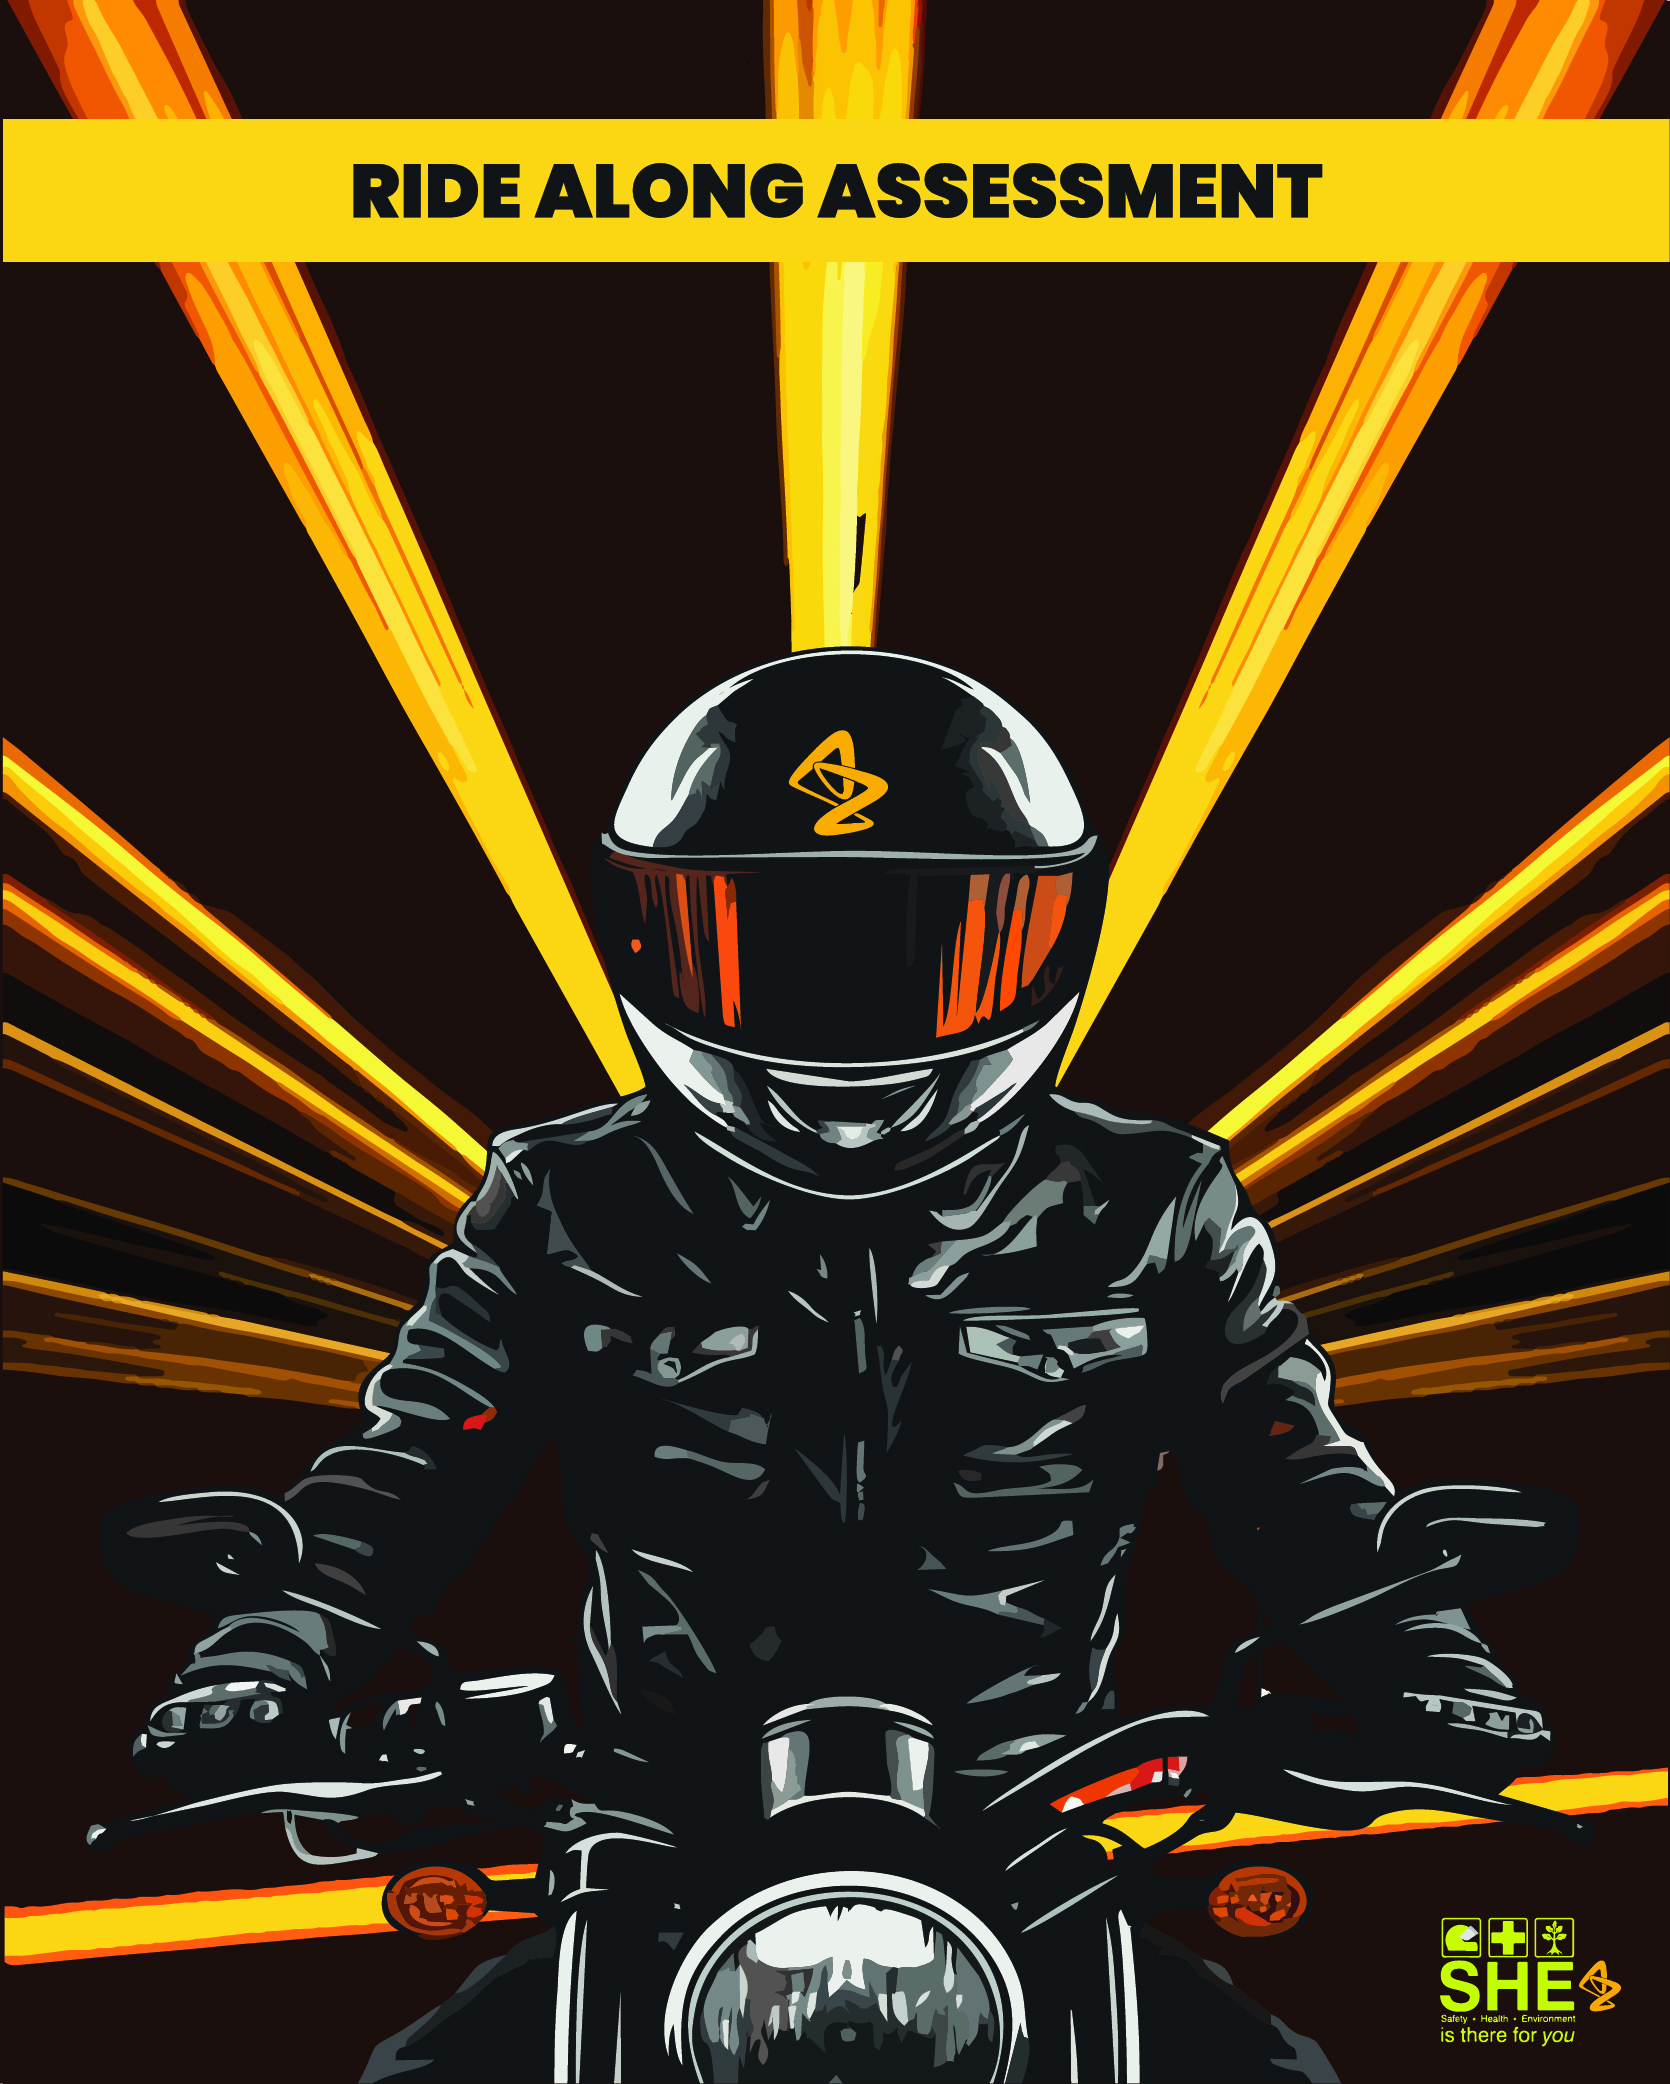
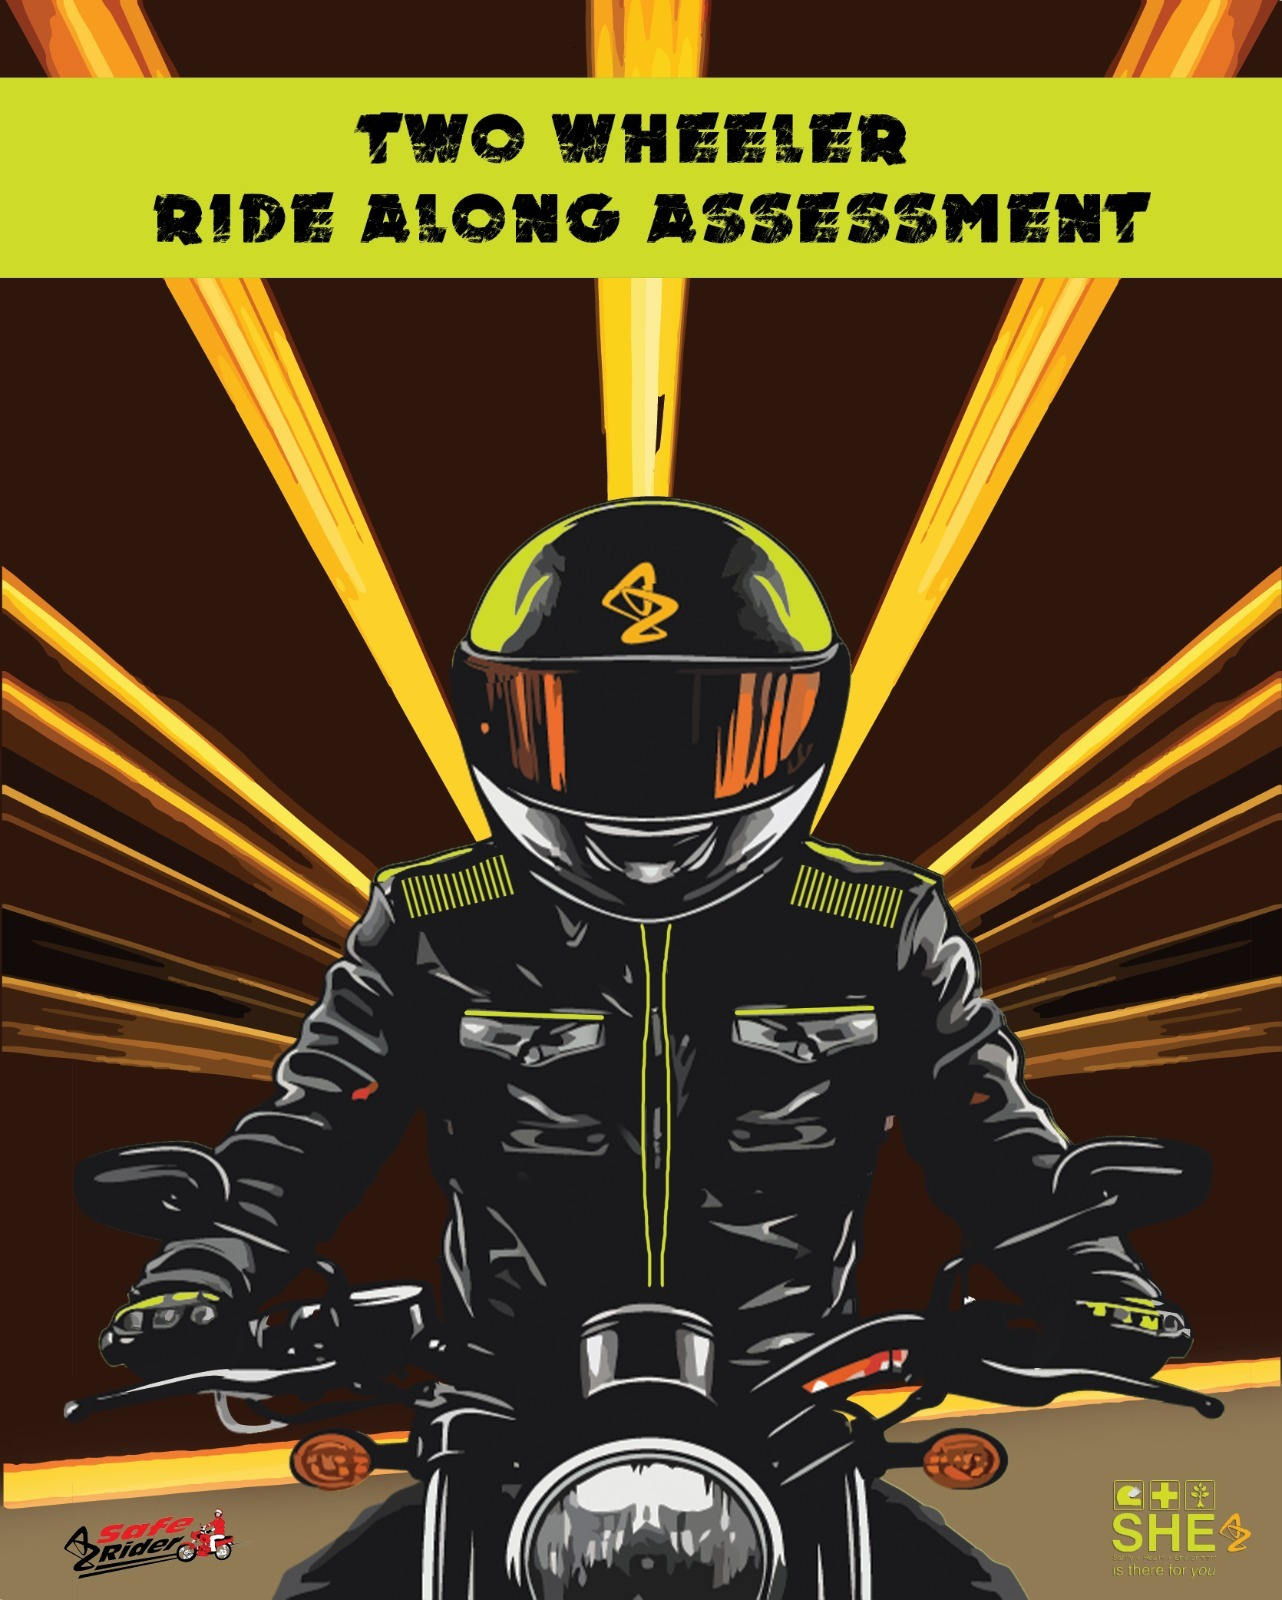
updated to latest changes

diff --git a/ride-along-form/src/pages/VehicleDetails.js b/ride-along-form/src/pages/VehicleDetails.js
@@ -7,6 +7,8 @@ const VehicleDetails = ({ formData, handleFormChange, onNext, onPrevious }) => {
   const [isCheckboxChecked, setIsCheckboxChecked] = useState(false);
   const [showSecondaryVehicle, setShowSecondaryVehicle] = useState(formData.vehicleDetails.useSecondaryVehicle === 'Yes');
   const [formSubmitted, setFormSubmitted] = useState(false); // Track if form is submitted
+  const [fuelTypeOptions, setFuelTypeOptions] = useState(['Petrol', 'EV']); // State to manage primary vehicle fuel options
+  const [secondaryFuelTypeOptions, setSecondaryFuelTypeOptions] = useState(['Petrol', 'EV']); // State to manage secondary vehicle fuel options
 
   const handleCheckboxChange = (e) => {
     setIsCheckboxChecked(e.target.checked);
@@ -14,6 +16,13 @@ const VehicleDetails = ({ formData, handleFormChange, onNext, onPrevious }) => {
 
   const handleFieldChange = (e, field) => {
     const { value } = e.target;
+
+    // Update fuel options dynamically based on primary vehicle selection
+    if (field === 'primaryVehicle') {
+      const newFuelOptions = value === '2 Wheeler' ? ['Petrol', 'EV'] : ['Petrol', 'Diesel', 'EV'];
+      setFuelTypeOptions(newFuelOptions);
+    }
+
     handleFormChange('vehicleDetails', field, value);
   };
 
@@ -21,6 +30,18 @@ const VehicleDetails = ({ formData, handleFormChange, onNext, onPrevious }) => {
     const { value } = e.target;
     handleFieldChange(e, 'useSecondaryVehicle');
     setShowSecondaryVehicle(value === 'Yes');
+  };
+
+  const handleSecondaryFieldChange = (e, field) => {
+    const { value } = e.target;
+
+    // Update fuel options dynamically based on secondary vehicle selection
+    if (field === 'secondaryVehicle') {
+      const newFuelOptions = value === '2 Wheeler' ? ['Petrol', 'EV'] : ['Petrol', 'Diesel', 'EV'];
+      setSecondaryFuelTypeOptions(newFuelOptions);
+    }
+
+    handleFormChange('vehicleDetails', field, value);
   };
 
   useEffect(() => {
@@ -46,7 +67,7 @@ const VehicleDetails = ({ formData, handleFormChange, onNext, onPrevious }) => {
       label: 'Fuel Type',
       type: 'dropdown',
       name: 'fuelType',
-      options: ['Petrol', 'Diesel'],
+      options: fuelTypeOptions, // Use the dynamically updated fuel type options
     },
     {
       label: 'Vehicle Number ',
@@ -64,7 +85,7 @@ const VehicleDetails = ({ formData, handleFormChange, onNext, onPrevious }) => {
       name: 'primaryVehicleModel',
     },
     {
-      label: 'Do you use a secondary vehicle for field of work?',
+      label: 'Do you use a Secondary Vehicle for field of work?',
       type: 'radio',
       name: 'useSecondaryVehicle',
       options: ['Yes', 'No'],
@@ -82,7 +103,7 @@ const VehicleDetails = ({ formData, handleFormChange, onNext, onPrevious }) => {
       label: 'Fuel Type',
       type: 'dropdown',
       name: 'secondaryVehicleFuelType',
-      options: ['Petrol', 'Diesel'],
+      options: secondaryFuelTypeOptions, // Use dynamically updated secondary vehicle fuel type options
     },
     {
       label: 'Secondary Vehicle Number',
@@ -165,7 +186,7 @@ const VehicleDetails = ({ formData, handleFormChange, onNext, onPrevious }) => {
                     <select
                       name={question.name}
                       value={formData.vehicleDetails[question.name] || question.options[0]}
-                      onChange={(e) => handleFieldChange(e, question.name)}
+                      onChange={(e) => handleSecondaryFieldChange(e, question.name)}
                       className="form-dropdown"
                     >
                       {question.options.map((option, idx) => (
@@ -180,7 +201,7 @@ const VehicleDetails = ({ formData, handleFormChange, onNext, onPrevious }) => {
                       type="text"
                       name={question.name}
                       value={formData.vehicleDetails[question.name] || ''}
-                      onChange={(e) => handleFieldChange(e, question.name)}
+                      onChange={(e) => handleSecondaryFieldChange(e, question.name)}
                       className="form-input"
                     />
                   )}

diff --git a/ride-along-form/src/pages/ReviewPage.js b/ride-along-form/src/pages/ReviewPage.js
@@ -2,7 +2,7 @@ import React, { useRef } from 'react';
 import './ReviewPage.css';
 import jsPDF from 'jspdf'; // Library for generating PDFs
 
-const ReviewPage = ({ formData }) => {
+const ReviewPage = ({ formData, onNext, onPrevious }) => {
   const reviewRef = useRef(); // Ref to target the review content for printing/PDF
 
   // Helper functions to handle default values dynamically
@@ -58,7 +58,7 @@ const ReviewPage = ({ formData }) => {
         { label: 'Name', key: 'name' },
         { label: 'Team', key: 'team' },
         { label: 'Line Man', key: 'lineMan' },
-        { label: 'Are you a new joinee?', key: 'newJoinee', defaultAnswer: 'No' }
+        // { label: 'Are you a new joinee?', key: 'newJoinee', defaultAnswer: 'No' }
       ]
     },
     {
@@ -66,7 +66,7 @@ const ReviewPage = ({ formData }) => {
       data: formData.vehicleAssessment,
       questions: [
         "Is the Vehicle Tyre Pressure correct?",
-        "How is the threading condition of the tyres?",
+        "How is the treading condition of the tyres?",
         "Is the speedometer functioning properly?",
         "Is the fuel meter functioning properly?",
         "Are both mirrors present? Is it positioned properly as per rider's eye line?",
@@ -83,18 +83,21 @@ const ReviewPage = ({ formData }) => {
       title: 'Rider Assessment',
       data: formData.riderAssessment,
       questions: [
-        "Does the rider have a valid driving license?",
-        "Is the rider wearing a helmet?",
-        "Is the helmet properly fastened?",
-        "Is the rider wearing appropriate footwear?",
-        "Is the rider wearing a reflective jacket?",
-        "Is the rider fit to drive (e.g., not tired, intoxicated, etc.)?",
-        "Does the rider have a valid insurance policy for the vehicle?",
-        "Is the rider familiar with the route?",
-        "Does the rider have a mobile phone for communication?",
-        "Is the rider adhering to traffic rules and signals?",
-        "Is the rider aware of vehicle speed limits?",
-        "Does the rider know emergency contact numbers in case of accidents?"
+        "Does the rider use hand signal/indicator while taking a turn?",
+        "Does the rider overtake from the correct side?",
+        "Does the rider wear shoes with a well-defined heel while riding?",
+        "Is the rider sleepy while riding?",
+        "Does the rider stop at traffic signals?",
+        "Does the rider use a mobile phone while riding?",
+        "Does the rider follow legal speed limits?",
+        "Is the rider’s sitting posture correct? Check the position of hands, elbows, knees, and thighs.",
+        "Does the rider make way for an ambulance?",
+        "Is the rider courteous to other road users?",
+        "Has the rider attended the Safe Rider Programme? Date:",
+        "Does the rider wear an AZ Helmet with the strap buckled?",
+        "Is the helmet in good condition?",
+        "Does the rider wear an AZ Jacket?",
+        "Is the jacket in good condition?"
       ]
     },
     {
@@ -224,6 +227,7 @@ const ReviewPage = ({ formData }) => {
     // Proceed with the mailto and PDF submission logic
     const mailToLink = `mailto:akhilxtel@gmail.com?subject=Ride Along Form Submission&body=${emailBody}`;
     window.location.href = mailToLink; // This will open the default email client with the populated body
+    onNext();
   };
   
 

diff --git a/ride-along-form/src/pages/RiderAssessment.js b/ride-along-form/src/pages/RiderAssessment.js
@@ -2,22 +2,24 @@ import React, {useEffect} from 'react';
 import './RiderAssessment.css';
 import watermark from '../assets/waterMark.png';
 import NavigationSteps from './NavigationSteps';
-import ReDark from '../assets/ReDark.png'; // Path to your bike logo
 
 const RiderAssessment = ({ formData, handleFormChange, onNext, onPrevious }) => {
   const questions = [
-    "Does the rider have a valid driving license?",
-    "Is the rider wearing a helmet?",
-    "Is the helmet properly fastened?",
-    "Is the rider wearing appropriate footwear?",
-    "Is the rider wearing a reflective jacket?",
-    "Is the rider fit to drive (e.g., not tired, intoxicated, etc.)?",
-    "Does the rider have a valid insurance policy for the vehicle?",
-    "Is the rider familiar with the route?",
-    "Does the rider have a mobile phone for communication?",
-    "Is the rider adhering to traffic rules and signals?",
-    "Is the rider aware of vehicle speed limits?",
-    "Does the rider know emergency contact numbers in case of accidents?"
+    "Does the rider use hand signal/indicator while taking a turn?",
+    "Does the rider overtake from the correct side?",
+    "Does the rider wear shoes with a well-defined heel while riding?",
+    "Is the rider sleepy while riding?",
+    "Does the rider stop at traffic signals?",
+    "Does the rider use a mobile phone while riding?",
+    "Does the rider follow legal speed limits?",
+    "Is the rider’s sitting posture correct? Check the position of hands, elbows, knees, and thighs.",
+    "Does the rider make way for an ambulance?",
+    "Is the rider courteous to other road users?",
+    "Has the rider attended the Safe Rider Programme? Date:",
+    "Does the rider wear an AZ Helmet with the strap buckled?",
+    "Is the helmet in good condition?",
+    "Does the rider wear an AZ Jacket?",
+    "Is the jacket in good condition?"
   ];
 
   useEffect(() => {
@@ -42,7 +44,6 @@ const RiderAssessment = ({ formData, handleFormChange, onNext, onPrevious }) => 
       <div className="watermark">
         <img src={watermark} alt="Watermark" />
       </div>
-      {/* <img src={ReDark} alt="Bike Logo" className="bike-animation" /> */}
       <form>
         {questions.map((question, index) => (
           <div key={index} className="question-container">

diff --git a/ride-along-form/src/pages/VehicleAssessment.js b/ride-along-form/src/pages/VehicleAssessment.js
@@ -10,7 +10,7 @@ const VehicleAssessment = ({ formData, handleFormChange, onNext, onPrevious }) =
 
   const questions = [
     "Is the Vehicle Tyre Pressure correct? Instruct the employee to check tyre pressure at a fuel station and ensure the air is filled according to the manufacturer’s instructions.",
-    "How is the threading condition of the tyres? Are there any cuts?",
+    "How is the treading condition of the tyres? Are there any cuts?",
     "Is the speedometer functioning properly?",
     "Is the fuel meter functioning properly?",
     "Are both mirrors present? Is it positioned properly as per rider's eye line?",
@@ -52,7 +52,7 @@ const VehicleAssessment = ({ formData, handleFormChange, onNext, onPrevious }) =
     <div className="vehicle-assessment-container">
       <h1 className='main-heading'>TWO WHEELER RIDE ALONG FORM</h1>
       <NavigationSteps currentStep="vehicleAssessment" />
-      <div className="mandatory-question-container">
+      {/* <div className="mandatory-question-container">
         <div className="mandatory-question-text">
           <strong>Are you a new joinee or existing employee?</strong>
         </div>
@@ -77,7 +77,7 @@ const VehicleAssessment = ({ formData, handleFormChange, onNext, onPrevious }) =
             New Joinee
           </label>
         </div>
-      </div>
+      </div> */}
 
       <div className="watermark">
         <img src={watermark} alt="Watermark" />
@@ -129,7 +129,7 @@ const VehicleAssessment = ({ formData, handleFormChange, onNext, onPrevious }) =
             {showAlerts && !formData.team && <span className="alert">This field is mandatory</span>}
           </div>
           <div className="form-group">
-            <label>Line Mgr:</label>
+            <label>Line Manager:</label>
             <input
               type="text"
               name="lineMan"

diff --git a/ride-along-form/src/pages/page2.js b/ride-along-form/src/pages/page2.js
@@ -13,7 +13,7 @@ const Page2 = ({ onNext, onPrevious }) => {
         },
         {
           id: 2,
-          assessment: 'How is the threading condition of the tyres? Are there any cuts?',
+          assessment: 'How is the treading condition of the tyres? Are there any cuts?',
           guidelines: 'Check the tyre thoroughly by inspecting the tread depth. Spin the wheel slowly and check for cuts, splits, bulges, or worn fabric.'
         },
         {
@@ -72,7 +72,7 @@ const Page2 = ({ onNext, onPrevious }) => {
   return (
     <div className="page2-container">
       <img src={waterMark} alt="Watermark" className="watermark" />  
-      <h1 className="form-heading">Vehicle Assessment</h1>
+      <h1 className="form-heading">ASSESSMENT GUIDELINES</h1>
       <table className="assessment-table">
         <thead>
           <tr>

diff --git a/ride-along-form/src/pages/ParentComponent.js b/ride-along-form/src/pages/ParentComponent.js
@@ -7,6 +7,7 @@ import RiderAssessment from './RiderAssessment';
 import VehicleAssessment from './VehicleAssessment';
 import VehicleDetails from './VehicleDetails';
 import ReviewPage from './ReviewPage'; // Import the ReviewPage component
+import ThankYou from './ThankYou';
 
 const ParentComponent = () => {
   const [currentPage, setCurrentPage] = useState(1);
@@ -92,9 +93,11 @@ const ParentComponent = () => {
       {currentPage === 6 && (
         <ReviewPage
           formData={formData}
-          onPrevious={() => setCurrentPage(5)} // Link back to VehicleDetails
+          onPrevious={() => setCurrentPage(5)}
+          onNext={() => setCurrentPage(7)} // Link back to VehicleDetails
         />
       )}
+      {currentPage === 7 && <ThankYou/>} 
     </div>
   );
 };

diff --git a/ride-along-form/src/pages/ThankYou.css b/ride-along-form/src/pages/ThankYou.css
@@ -1,0 +1,24 @@
+/* Base styles for the image-centered page */
+.image-page-container {
+    display: flex;
+    align-items: center;
+    justify-content: center;
+    height: 100vh; /* Full viewport height */
+    background-color: #f3f3f3;
+  }
+  
+  .center-image {
+    width: 80%;
+    height: auto;
+    max-width: 600px;
+    box-shadow: 0 8px 16px rgba(0, 0, 0, 0.2); /* Subtle shadow */
+    border-radius: 15px;
+  }
+  
+  /* Media query for mobile devices */
+  @media (max-width: 480px) {
+    .center-image {
+      width: 90%;
+    }
+  }
+  

diff --git a/ride-along-form/src/pages/page2.css b/ride-along-form/src/pages/page2.css
@@ -97,6 +97,7 @@ body {
   transition: background-color 0.3s ease, transform 0.2s ease;
   position: relative;
   z-index: 1;
+  margin-left: 40%;
 }
 
 .start-form-btn:hover {
@@ -116,6 +117,7 @@ body {
   .start-form-btn {
     padding: 10px 20px;
     font-size: 1rem;
+    margin-left: 32%;
   }
 
   /* .page2-container {
@@ -141,5 +143,6 @@ body {
   .start-form-btn {
     padding: 8px 16px;
     font-size: 0.9rem;
+    margin-left: 32%;
   }
 }

diff --git a/ride-along-form/src/pages/ThankYou.js b/ride-along-form/src/pages/ThankYou.js
@@ -1,0 +1,13 @@
+import React from 'react';
+import thankYou from '../assets/thankYou.jpg'; // Import your image
+import './ThankYou.css'; // Import the CSS for styling
+
+const ThankYou = () => {
+  return (
+    <div className="image-page-container">
+      <img src={thankYou} alt="Thank You" className="center-image" />
+    </div>
+  );
+};
+
+export default ThankYou;
